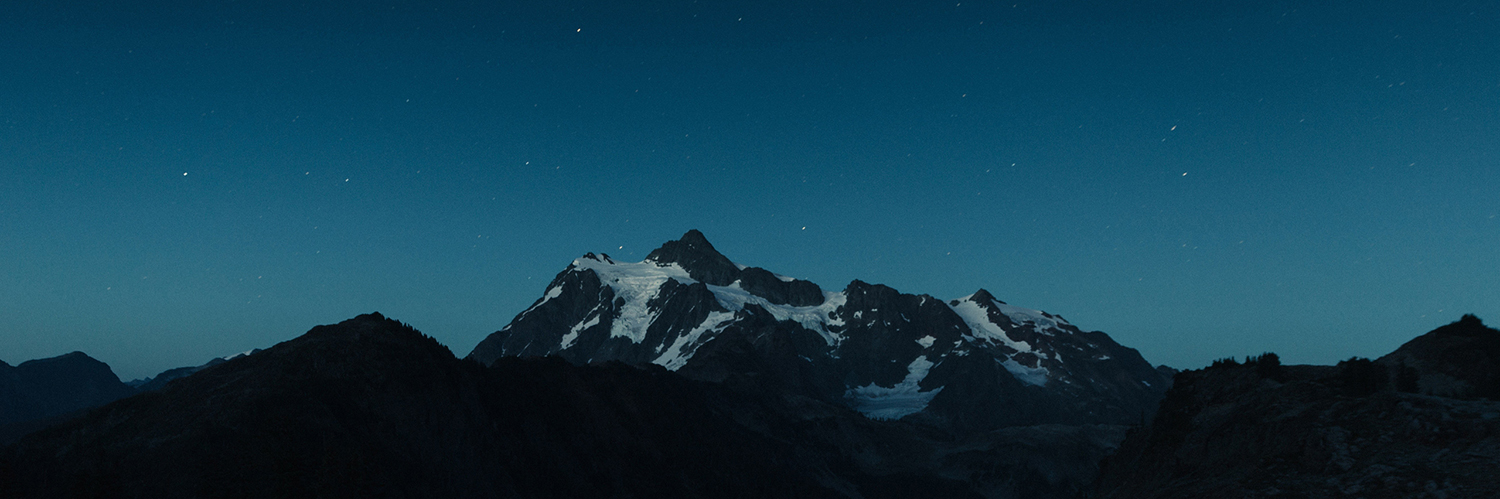
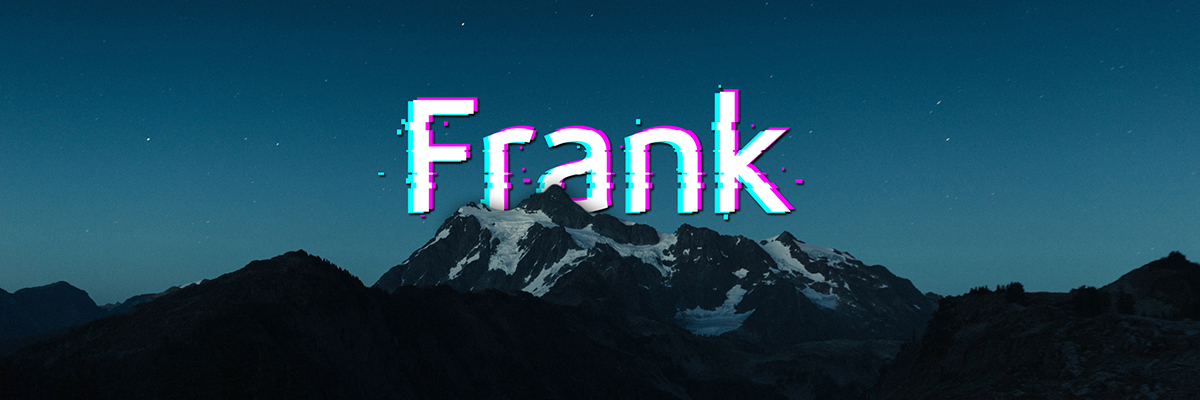
修改banner壁纸

Changed region(s): [[0.3083, 0.21, 0.6783, 0.54], [0.3392, 0.6, 0.37, 0.63]]

diff --git a/css/main.css b/css/main.css
@@ -65,14 +65,15 @@ li{
 
 /*------------------------------------*/
 .banner-wrap{
-    height: 360px;
+    height: 450px;
     background-color: #F5F7F9;
 }
 
 .banner-wrap img{
     width: 100%;
     min-width: 1082px;
-    height: 360px;
+    height: 450px;
+    /* height: 360px; */
     filter: blur(0px);
     transition: all 0.3;
     left: 50%;
@@ -105,7 +106,7 @@ li{
     margin: 0 auto;
     /* margin-top: 30px; */
     padding-top: 30px;
-    background-color: #fff;
+    /* background-color: #fff; */
     /* background-color: rgba(66, 95, 243, 0.80); */
 }
 .profile-photo{
@@ -212,6 +213,8 @@ embed{
     color: #666666;
     font-size: 24px;
     padding: 20px 10px 5px 10px;
+    /* font-family: "圆体"; */
+    /* font-weight: bold */
 }
 .blog-info a:hover{
     color: #000;
@@ -232,10 +235,9 @@ embed{
     display: inline;
     right: 0px;
     border: 1px solid #A1A0A0;
-    /* color: #fff; */
     border-radius: 15px;
     padding: 0px 8px 0px 8px;
-    margin: 0px 5px;
+    margin: 0px 3px;
     font-size: 12px;
     /* transform: scale(0.55); */
     font-family: "Arial";
